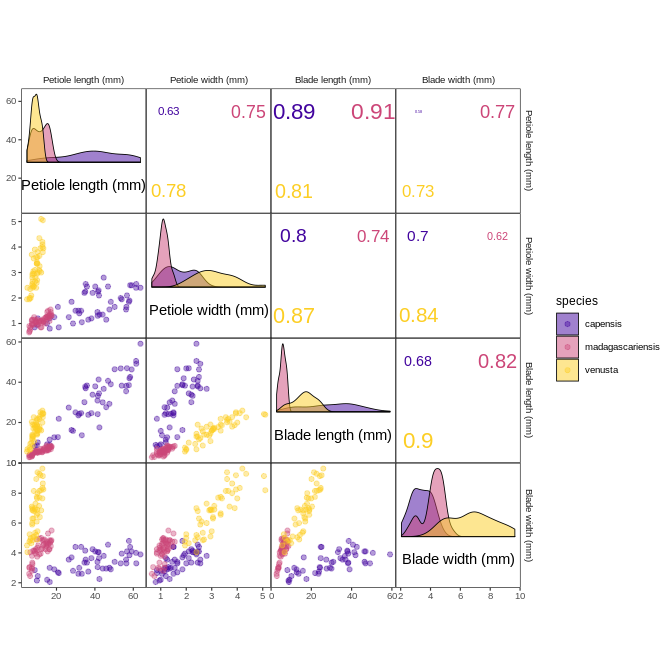
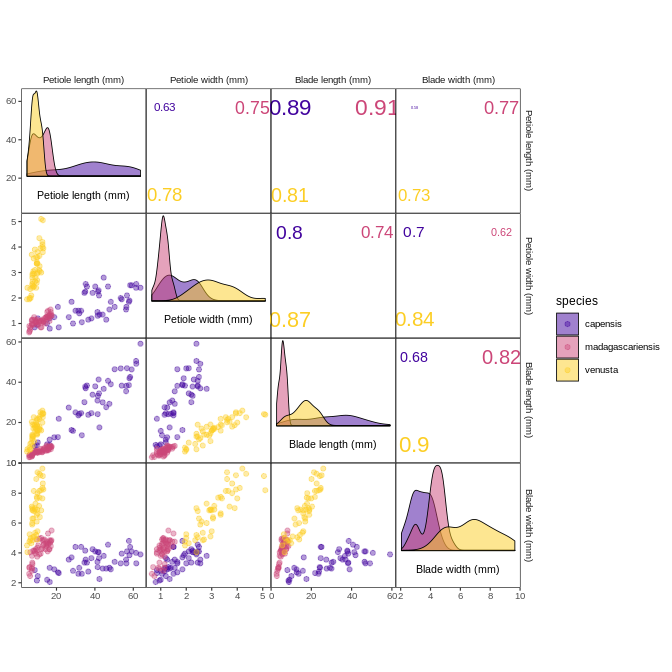
Update README with new version of corrmorant
* Remove problems with x and y scales in plots with transformed axes.

diff --git a/README.md b/README.md
@@ -103,8 +103,8 @@ ggcorrm(drosera,                                 # dataset
         labels = paste(str_to_sentence(gsub("_", " ", names(drosera)[3:6])), "(mm)")) + # labels for variable names
   lotri(geom_point(alpha = 0.4)) +               # points in lower triangle 
   utri_corrtext() +                              # indicator of (Pearson) correlation in upper triangle
-  dia_density(lower = .4, color = "black", size = .3, alpha = .5) + # density plots on the plot diagonal
-  dia_names(y_pos = .2) +                        # variable names on the plot diagonal
+  dia_density(color = "black", size = .3, alpha = .5) + # density plots on the plot diagonal
+  dia_names() +                        # variable names on the plot diagonal
   scale_color_viridis_d(option = "C", begin = .1, end = .9,  # color scale settings
                         aesthetics = c("fill", "color"))
 ```
@@ -120,16 +120,17 @@ ggcorrm(drosera,                                 # dataset
 The patterns become even clearer when assessed on a log scale:
 
 ``` r
-drosera %>% 
-  mutate_if(is.numeric, log) %>% 
-  ggcorrm(
-    aes(color = species, fill = species),   
-    labels = paste(str_to_sentence(gsub("_", " ", names(drosera)[3:6])), "(mm)")) + 
+ggcorrm(
+  drosera,
+  aes(color = species, fill = species),   
+  labels = paste(str_to_sentence(gsub("_", " ", names(drosera)[3:6])), "(mm)"),
+  rescale = "as_is") + 
   lotri(geom_point(alpha = 0.4)) +              
   utri_corrtext() +                              
-  dia_density(lower = .4, color = "black", size = .3, alpha = .5) + 
-  dia_names(y_pos = .2) +                        
-  scale_color_viridis_d(begin = .15, end = .85, aesthetics = c("fill", "color")) 
+  dia_density(color = "black", size = .3, alpha = .5) + 
+  dia_names() +                        
+  scale_color_viridis_d(begin = .15, end = .85, aesthetics = c("fill", "color")) +
+  scale_x_log10() + scale_y_log10()
 ```
 
     ## The following column names were replaced:
@@ -152,17 +153,18 @@ pfun <- function(data){
     bg_dia   = "grey20",
     bg_lotri = "grey40",
     bg_utri  = "grey40",
-    labels = paste(str_to_sentence(gsub("_", " ", names(drosera)[3:6])))
+    labels = paste(str_to_sentence(gsub("_", " ", names(drosera)[3:6]))),
+    rescale = "as_is"
   ) + 
     lotri(geom_smooth(alpha = .3, method = "lm", size = .35)) +
     lotri(geom_point(alpha = .65)) +              
     utri_corrtext(ncol = 1, squeeze = .3) +        
-    dia_density(lower = .3, alpha = .5) +
-    dia_names(y_pos = .15, col = "#DDDDDD") +  
+    dia_density(alpha = .5) +
+    dia_names(col = "#DDDDDD") +  
     theme(panel.border    = element_rect(fill = NA, color = "#DDDDDD", size = .8),
           legend.background = element_blank(),
           plot.background = element_rect(fill = "#DDDDDD", , color = "#DDDDDD"),
-          plot.title = element_text(face = "italic", hjust = 0.5, size = 15)) 
+          plot.title = element_text(face = "italic", hjust = 0.5, size = 15))
 }
 
 # Create plot for Drosera capensis 
